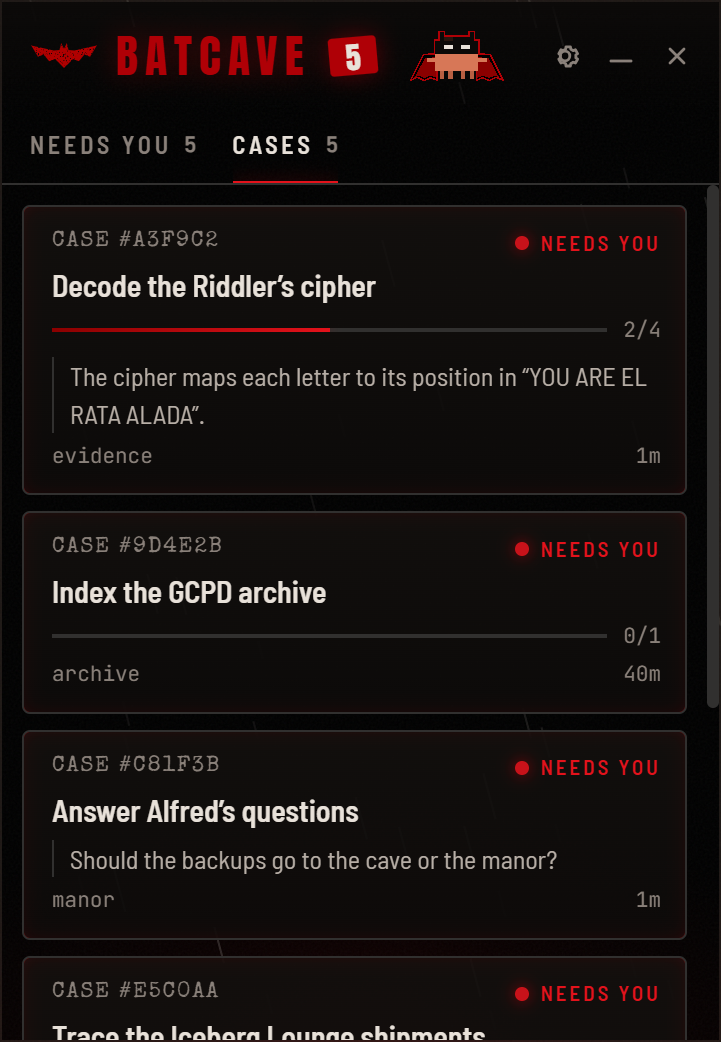
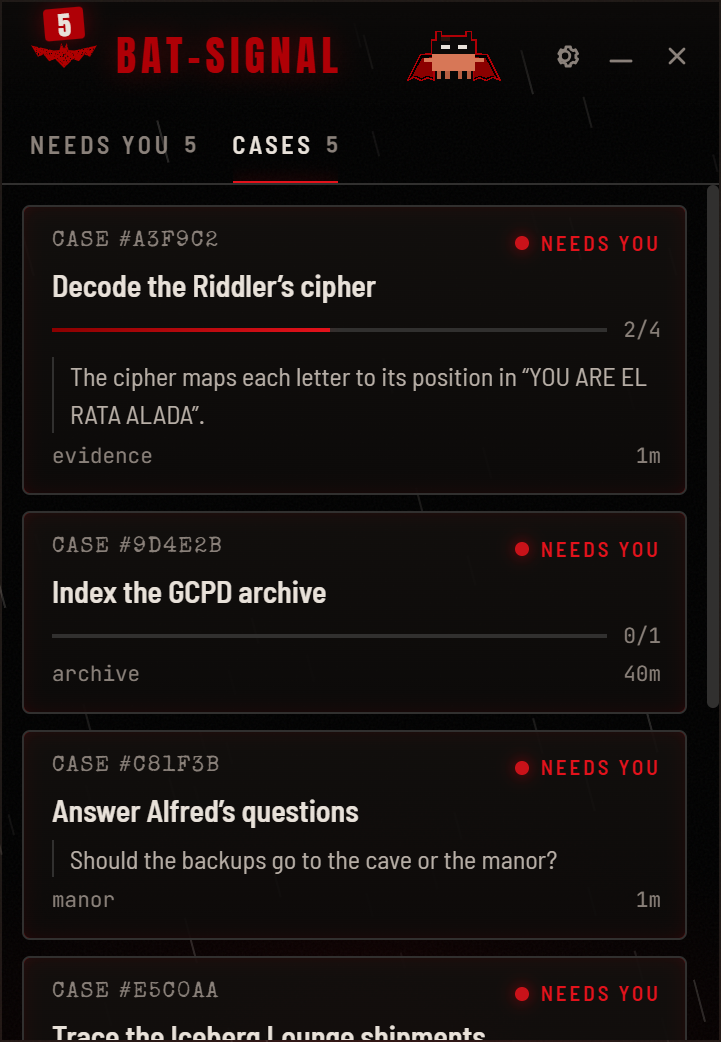
docs: call the project Bat-Signal everywhere
README, contributing guide, roadmap, bug template and screenshots (the
panel's header now reads BAT-SIGNAL).

Refs #13

Changed region(s): [[0.1526, 0.0307, 0.5492, 0.0921], [0.5492, 0.0307, 0.7018, 0.0921], [0.061, 0.0, 0.1221, 0.0614]]

diff --git a/README.md b/README.md
@@ -1,6 +1,6 @@
-# Batcave
+# Bat-Signal
 
-> A tiny window in the corner of your screen that watches your **Claude Code** sessions like the Bat-Computer.
+> A small signal in the corner of your screen that lights up when your **Claude Code** sessions need you, with a Bat-Computer panel one click away.
 
 <p align="center">
   <img src="docs/screenshots/signal-notice.png" width="320" alt="The Bat-Signal disc lit red, sending a permission notice up its beam">
@@ -14,7 +14,7 @@
 
 **Status:** under construction (v0). See the [roadmap](docs/ROADMAP.md).
 
-Batcave rests in a corner of your screen as a small **Bat-Signal**. When something happens, the signal lights up and a notice card rises from it; click it to open the full panel right on that case. It:
+Bat-Signal rests in a corner of your screen as a small signal disc. When something happens, the disc lights up and a notice card rises from it; click it to open the full panel right on that case. It:
 
 - tells you when a Claude Code session finishes replying;
 - shows which sessions are active and what each one is doing (tasks, subagents, background commands);
@@ -50,20 +50,20 @@ npm install
 npm run dev
 ```
 
-Batcave already works from the files Claude Code writes. For instant alerts, including permission prompts, install the plugin:
+Bat-Signal already works from the files Claude Code writes. For instant alerts, including permission prompts, install the plugin:
 
 ```bash
-claude plugin marketplace add lucas-moont/batcave
-claude plugin install batcave@batcave
+claude plugin marketplace add lucas-moont/bat-signal
+claude plugin install bat-signal@bat-signal
 ```
 
 The plugin is observe-only and does nothing when the app is closed. Details in [docs/plugin.md](docs/plugin.md).
 
-Batcave starts as the Bat-Signal disc in the bottom-right corner: drag it anywhere, click it to open the panel. Drag the panel by its header and resize it from any edge; Esc or the fold button folds it back into the signal. Both open where you left them.
+Bat-Signal starts as the signal disc in the bottom-right corner: drag it anywhere, click it to open the panel. Drag the panel by its header and resize it from any edge; Esc or the fold button folds it back into the signal. Both open where you left them.
 
 ## Light on resources
 
-A window parked in a corner all day has to be cheap. Every looping effect runs off one clock ticking eight times a second instead of 60 fps CSS animations, Bat-Clawd is a flip-book of finished poses, and the rain only falls while you are looking. Measured on the real windows (all Batcave processes, GPU included): about **1% of one CPU core** at rest, whether the signal is dark or lit. The disc only pulses for the few seconds an urgent notice is out.
+A window parked in a corner all day has to be cheap. Every looping effect runs off one clock ticking eight times a second instead of 60 fps CSS animations, Bat-Clawd is a flip-book of finished poses, and the rain only falls while you are looking. Measured on the real windows (all Bat-Signal processes, GPU included): about **1% of one CPU core** at rest, whether the signal is dark or lit. The disc only pulses for the few seconds an urgent notice is out.
 
 ---
 

diff --git a/CONTRIBUTING.md b/CONTRIBUTING.md
@@ -1,4 +1,4 @@
-# Contributing to Batcave
+# Contributing to Bat-Signal
 
 Thanks for your interest. The project is small, and so are the rules.
 
@@ -38,6 +38,6 @@ Small commits, one topic each.
 
 ## Privacy
 
-Batcave reads files from the user's `~/.claude/` folder. **Never** put real transcript excerpts, personal paths, prompts or tokens in issues, PRs or test fixtures. The fixtures in `app/test/fixtures/` are synthetic on purpose.
+Bat-Signal reads files from the user's `~/.claude/` folder. **Never** put real transcript excerpts, personal paths, prompts or tokens in issues, PRs or test fixtures. The fixtures in `app/test/fixtures/` are synthetic on purpose.
 
 The `~/.claude/sessions/*.key` files hold secrets and must **never** be read by the app.

diff --git a/docs/ROADMAP.md b/docs/ROADMAP.md
@@ -1,6 +1,6 @@
 # Roadmap
 
-Where Batcave can go. The order inside each version is a suggestion. After v1 ships there will be a feedback round to decide what actually goes into v2.
+Where Bat-Signal can go. The order inside each version is a suggestion. After v1 ships there will be a feedback round to decide what actually goes into v2.
 
 ## v1: "the Bat-Computer watches"
 
